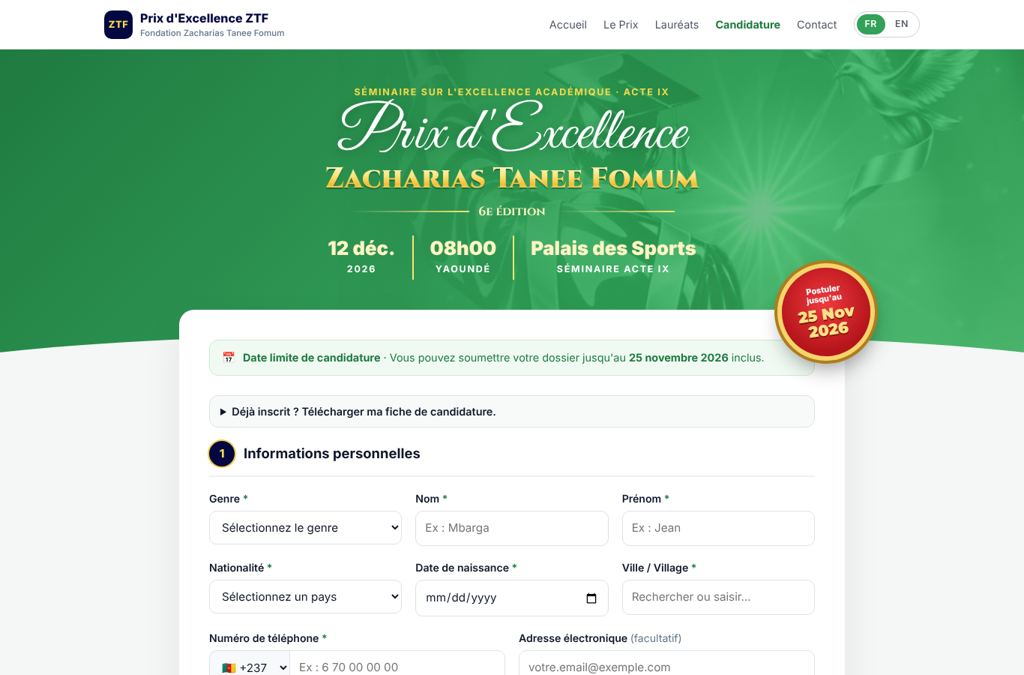
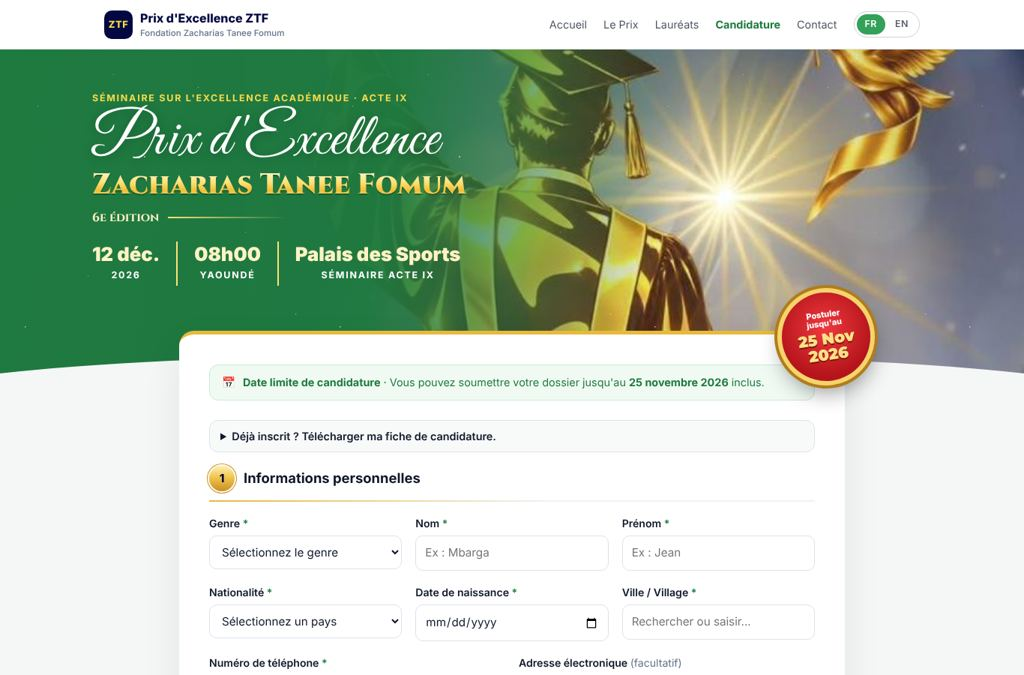
Renforce le thème des affiches dans les maquettes hybrides
Photos plus présentes (lauréat, trophée, portrait du Pr Fomum), numéros
de section et bouton dorés, pied de page doré, bandeau rouge du médaillon.

Claude-Session: https://claude.ai/code/session_01Mcbiq1fq7jBpc2oKkKSYz2

diff --git a/maquettes/hybride/index.html b/maquettes/hybride/index.html
@@ -31,29 +31,29 @@ main{max-width:1180px;margin:0 auto;padding:28px 16px 60px}
 <header class="sparkle">
   <div class="h-script">Prix d'Excellence</div>
   <h1 class="gold-on-green">SITE ACTUEL × AFFICHES · 5 MAQUETTES</h1>
-  <p>La base du formulaire en ligne (menu blanc, bandeau vert, carte blanche, bouton jaune, pied bleu nuit), avec les éléments forts des affiches de la 6e édition : titre en script, nom doré, médaillon « Postuler jusqu'au 25 Nov 2026 », séminaire du 12 décembre, compte à rebours.</p>
+  <p>La base du formulaire en ligne (menu blanc, bandeau vert, carte blanche), avec les photos et les éléments forts des affiches de la 6e édition : lauréat, trophée et portrait du fondateur, titre en script, nom doré, numéros et bouton dorés, médaillon « Postuler jusqu'au 25 Nov 2026 », séminaire du 12 décembre, compte à rebours.</p>
 </header>
 <main>
   <div class="grid">
     <a class="tile" href="1-classique-dore.html"><img src="apercus/1-classique-dore.jpg" alt="Aperçu maquette 1"><div class="b">
       <h2><span>1.</span> Classique doré</h2>
-      <p>Le site actuel presque inchangé : le bandeau vert reçoit le titre de l'affiche et, en filigrane, le lauréat doré. Le médaillon rouge est épinglé au coin de la carte.</p>
-      <div class="tags"><span>Le plus proche du site</span><span>Lauréat en filigrane</span><span>Médaillon</span></div></div></a>
+      <p>Le site actuel, avec le lauréat doré de l'affiche qui occupe toute la moitié droite du bandeau vert. Numéros de section dorés, bouton doré, médaillon rouge épinglé au coin de la carte.</p>
+      <div class="tags"><span>Le plus proche du site</span><span>Lauréat doré</span><span>Médaillon</span></div></div></a>
     <a class="tile" href="2-vert-et-nuit.html"><img src="apercus/2-vert-et-nuit.jpg" alt="Aperçu maquette 2"><div class="b">
       <h2><span>2.</span> Vert et nuit</h2>
-      <p>Le bandeau se coupe en deux : à gauche le vert du site avec le titre, à droite le bleu nuit de l'affiche avec le trophée, le médaillon, le compte à rebours et le séminaire.</p>
-      <div class="tags"><span>Deux univers côte à côte</span><span>Compte à rebours</span><span>Trophée</span></div></div></a>
+      <p>À gauche, le vert du site sur la photo du lauréat, avec le portrait du Pr Fomum et sa devise ; à droite, le bleu nuit de l'affiche avec le trophée, le médaillon, le compte à rebours et le séminaire.</p>
+      <div class="tags"><span>Deux univers côte à côte</span><span>Portrait du fondateur</span><span>Trophée</span></div></div></a>
     <a class="tile" href="3-bandeau-seminaire.html"><img src="apercus/3-bandeau-seminaire.jpg" alt="Aperçu maquette 3"><div class="b">
       <h2><span>3.</span> Bandeau séminaire</h2>
-      <p>Bandeau vert du site, puis une barre bleu nuit façon bas d'affiche (date, heure, lieu, compte à rebours, médaillon). Les 7 catégories de prix se déplient dans la carte.</p>
+      <p>Le lauréat de l'affiche en fond du bandeau vert, puis une barre bleu nuit façon bas d'affiche : médaillon, date, heure, lieu, compte à rebours et trophée. Les 7 catégories de prix se déplient dans la carte.</p>
       <div class="tags"><span>Sobre</span><span>Catégories dépliables</span><span>Infos du séminaire</span></div></div></a>
     <a class="tile" href="4-note-importante.html"><img src="apercus/4-note-importante.jpg" alt="Aperçu maquette 4"><div class="b">
       <h2><span>4.</span> Note importante</h2>
-      <p>En tête de la carte blanche, l'encadré bleu nuit et or de l'affiche « Note importante à tout élève et étudiant », sous ruban rouge, avec le médaillon et la date du séminaire.</p>
+      <p>Le trophée en grand dans le bandeau, puis l'encadré bleu nuit et or « Note importante à tout élève et étudiant » sous ruban rouge, avec le portrait du Pr Fomum, le médaillon et le séminaire.</p>
       <div class="tags"><span>Message de la Fondation</span><span>Ruban rouge</span><span>Motivant</span></div></div></a>
     <a class="tile" href="5-mobile-hybride.html"><img src="apercus/5-mobile-hybride.jpg" alt="Aperçu maquette 5"><div class="b">
       <h2><span>5.</span> Mobile hybride</h2>
-      <p>La version téléphone du site (barre verte, rubriques blanches repliables, bouton jaune fixe) avec le trophée en en-tête et le compte à rebours dans un encart vert.</p>
+      <p>La version téléphone du site (barre verte, rubriques blanches repliables) avec le trophée en en-tête, le compte à rebours dans le rouge du médaillon, la carte du fondateur et un bouton doré fixe.</p>
       <div class="tags"><span>Smartphone</span><span>Rubriques repliables</span><span>Progression</span></div></div></a>
   </div>
   <div class="note">

diff --git a/maquettes/hybride/5-mobile-hybride.html b/maquettes/hybride/5-mobile-hybride.html
@@ -19,15 +19,16 @@ html,body{background:#e3efe7}
 .hero{text-align:center;padding:120px 16px 20px;background:linear-gradient(180deg,rgba(3,8,66,.05),var(--site-navy) 82%),url(../affiche/img/trophee.jpg) center 25%/cover}
 .hero .h-script{font-size:2.9rem}
 .hero .h-name{font-family:Cinzel,serif;font-weight:900;font-size:1.35rem;margin-top:2px}
-.dl{margin:14px 12px 0;border-radius:18px;padding:14px;text-align:center;color:#fff;background:linear-gradient(135deg,var(--green-d),var(--green))}
-.dl .t{font-weight:800;text-transform:uppercase;font-size:.82rem;letter-spacing:.04em;color:var(--yellow)}
+.dl{margin:14px 12px 0;border-radius:18px;padding:14px;text-align:center;color:#fff;background:radial-gradient(circle at 50% 30%,#f03a3f,#b5141b 75%);box-shadow:0 0 0 3px #f7d36b,0 10px 24px rgba(0,0,0,.25)}
+.dl .t{font-weight:800;text-transform:uppercase;font-size:.82rem;letter-spacing:.04em;color:#ffe08a}
+.fm{margin:12px 12px 0;padding:14px;border-radius:18px;background:var(--site-navy) url(../affiche/img/laureat.jpg) right center/auto 140% no-repeat;box-shadow:inset 0 0 0 999px rgba(3,8,66,.55)}
 .dl .countdown{margin-top:10px}.dl .countdown div{min-width:62px;background:rgba(3,8,66,.35);border-color:rgba(255,255,255,.35)}
 .pad{padding:14px 12px 0}
 .list{padding:12px;display:grid;gap:12px}
 details.sec{background:#fff;border-radius:18px;border:1px solid var(--line-l);overflow:hidden;margin:0}
 details.sec>summary{list-style:none;display:flex;align-items:center;gap:12px;padding:15px;cursor:pointer;font-weight:700}
 details.sec>summary::-webkit-details-marker{display:none}
-summary .n{flex:none;width:36px;height:36px;border-radius:50%;display:grid;place-items:center;background:var(--site-navy);color:var(--yellow);font-weight:800;box-shadow:0 0 0 2px #f2c94c}
+summary .n{flex:none;width:36px;height:36px;border-radius:50%;display:grid;place-items:center;background:linear-gradient(180deg,#fff0b3,#f0c64f 45%,#c98f23);color:var(--site-navy);font-weight:800;box-shadow:0 0 0 2px #fff,0 0 0 3px #c98f23}
 details.sec.is-complete summary .n{background:var(--green);color:#fff;box-shadow:none}
 summary .t{flex:1;min-width:0}summary small{display:block;font-weight:400;color:var(--muted);font-size:.76rem}
 summary .st{font-size:.7rem;font-weight:700;color:var(--muted);background:#f2f4f7;padding:4px 8px;border-radius:999px;white-space:nowrap}
@@ -39,7 +40,7 @@ details.sec.is-complete summary .st{background:#dcfae6;color:var(--green-d)}
 .dock{position:fixed;left:0;right:0;bottom:0;z-index:30;padding:12px 16px calc(12px + env(safe-area-inset-bottom));background:rgba(255,255,255,.96);backdrop-filter:blur(8px);border-top:1px solid var(--line-l)}
 .dock-in{max-width:488px;margin:auto;display:flex;align-items:center;gap:12px}
 .dock .info{flex:1;font-size:.76rem;color:var(--muted);line-height:1.25}.dock .info b{display:block;color:var(--ink);font-size:.95rem}
-.dock-btn{flex:none;min-height:52px;padding:0 18px;border:0;border-radius:14px;font:inherit;font-weight:800;color:var(--site-navy);background:linear-gradient(180deg,#ffe98a,#f8da49 50%,#efc12e);cursor:pointer}
+.dock-btn{flex:none;min-height:52px;padding:0 18px;border:0;border-radius:999px;font:inherit;font-weight:800;color:var(--site-navy);background:linear-gradient(180deg,#fff0b3,#f0c64f 45%,#c98f23);box-shadow:0 6px 16px rgba(201,143,35,.35);cursor:pointer}
 .ztf-demo{bottom:92px!important}
 footer.site{display:none}
 </style>
@@ -57,6 +58,7 @@ footer.site{display:none}
   <div data-ztf-hide-on-success>
     <div class="dl"><div class="t"><span data-i18n="a.until"></span> <span data-i18n="a.until.date"></span></div>
       <div data-cd-open><div class="countdown"><div><b data-cd="d">00</b><span data-i18n="a.cd.days"></span></div><div><b data-cd="h">00</b><span data-i18n="a.cd.hours"></span></div><div><b data-cd="m">00</b><span data-i18n="a.cd.min"></span></div><div><b data-cd="s">00</b><span data-i18n="a.cd.sec"></span></div></div></div><div data-cd-closed hidden data-i18n="a.cd.closed"></div></div>
+    <div class="fm founder-mini"><img src="../affiche/img/fondateur.jpg" alt="Pr Zacharias Tanee Fomum"><div><b data-i18n="a.founder"></b><q data-i18n="a.founder.q"></q></div></div>
     <div class="pad" data-ztf-slot="lookup"></div>
     <form data-ztf-form id="form">
       <div class="list">

diff --git a/maquettes/hybride/4-note-importante.html b/maquettes/hybride/4-note-importante.html
@@ -10,7 +10,11 @@
 <link rel="stylesheet" href="hybride.css">
 <style>
 .deadline{display:flex;gap:10px;align-items:flex-start;background:#f0faf3;border:1px solid #cbead5;color:var(--green-d);border-radius:12px;padding:12px 16px;font-size:.9rem;margin-bottom:26px}
-.hero{color:#fff;text-align:center;padding:44px 16px 120px;background:linear-gradient(135deg,var(--green-d),var(--green) 60%,var(--green-l))}
+.hero{color:#fff;padding:44px 16px 140px;background:linear-gradient(90deg,var(--green-d) 0%,var(--green) 46%,rgba(51,161,90,.4) 60%,rgba(51,161,90,0) 72%),url(../affiche/img/trophee.jpg) right center/auto 200% no-repeat,var(--site-navy)}
+.hero .in{max-width:1080px;margin:auto}
+.hero .gold-rule{justify-content:flex-start;max-width:420px;margin-left:0!important}.hero .gold-rule:before{display:none}
+@media(max-width:760px){.hero{background:linear-gradient(180deg,rgba(31,122,64,.82),rgba(31,122,64,.95) 70%),url(../affiche/img/trophee.jpg) center/cover}}
+.hero>*{position:relative;text-shadow:0 2px 10px rgba(3,8,66,.45)}
 .hero .h-script{font-size:clamp(3rem,7vw,4.8rem);margin-top:6px}
 .hero .h-name{font-size:clamp(1.3rem,3.2vw,2.2rem)}
 .hero .gold-rule{margin:12px auto 0;font-family:Cinzel,serif;font-weight:700;color:#fff3c4}
@@ -22,6 +26,9 @@
 .note p{margin:0 0 10px}.note .g{color:#f2c94c;font-weight:800}
 .note .row{display:flex;flex-wrap:wrap;justify-content:center;align-items:center;gap:12px 22px;margin-top:14px}
 .note .row .event b{font-size:1.15rem}
+.note .head{display:grid;grid-template-columns:auto 1fr;gap:18px;align-items:center;text-align:left;margin-bottom:6px}
+.note .head img{width:96px;height:120px;object-fit:cover;border-radius:14px;box-shadow:0 0 0 3px #f2c94c}
+@media(max-width:560px){.note .head{grid-template-columns:1fr;text-align:center;justify-items:center}}
 </style>
 </head>
 <body>
@@ -33,19 +40,19 @@
   </div>
 </div></header>
 
-<section class="hero sparkle">
+<section class="hero sparkle"><div class="in">
   <div class="eyebrow" data-i18n="a.seminar"></div>
   <div class="h-script">Prix d'Excellence</div>
   <h1 class="h-name gold-on-green">Zacharias Tanee Fomum</h1>
   <div class="gold-rule" data-i18n="a.edition"></div>
-</section>
+</div></section>
 <main class="wrap">
   <div class="card form-site">
     <div data-ztf-hide-on-success>
       <div class="note sparkle">
         <span class="ribbon" data-i18n="a.note.title"></span>
-        <p class="g" data-i18n="a.note.1"></p>
-        <p data-i18n="a.note.3"></p>
+        <div class="head"><img src="../affiche/img/fondateur.jpg" alt="Pr Zacharias Tanee Fomum"><div><p class="g" data-i18n="a.note.1"></p><p data-i18n="a.note.2" style="font-weight:500"></p></div></div>
+        <p class="g" data-i18n="a.note.3"></p>
         <p data-i18n="a.note.4"></p>
         <div class="row"><div class="seal sm"><div><small data-i18n="a.until"></small><b data-i18n="a.until.date"></b></div></div><div class="event"><div><b data-i18n="a.date"></b><span data-i18n="a.year"></span></div><div><b data-i18n="a.time"></b><span data-i18n="a.city"></span></div><div><b data-i18n="a.venue"></b><span data-i18n="a.seminar.short"></span></div></div></div>
       </div>

diff --git a/maquettes/hybride/1-classique-dore.html b/maquettes/hybride/1-classique-dore.html
@@ -10,14 +10,18 @@
 <link rel="stylesheet" href="hybride.css">
 <style>
 .deadline{display:flex;gap:10px;align-items:flex-start;background:#f0faf3;border:1px solid #cbead5;color:var(--green-d);border-radius:12px;padding:12px 16px;font-size:.9rem;margin-bottom:26px}
-.hero{position:relative;overflow:hidden;color:#fff;text-align:center;padding:48px 16px 130px;background:linear-gradient(135deg,var(--green-d),var(--green) 60%,var(--green-l))}
-.hero:before{content:"";position:absolute;inset:0;background:url(../affiche/img/laureat.jpg) right 20% / auto 120% no-repeat;opacity:.28;mix-blend-mode:luminosity;-webkit-mask-image:linear-gradient(90deg,transparent 30%,#000 75%);mask-image:linear-gradient(90deg,transparent 30%,#000 75%)}
+.hero{position:relative;overflow:hidden;color:#fff;padding:56px 16px 150px;
+  background:linear-gradient(100deg,var(--green-d) 0%,rgba(31,122,64,.97) 38%,rgba(31,122,64,.55) 50%,rgba(31,122,64,0) 64%),url(../affiche/img/laureat.jpg) right center/auto 128% no-repeat,var(--site-navy)}
+.hero .in{max-width:1120px;margin:auto}
+.hero .event{justify-content:flex-start}.hero .event>div:first-child{padding-left:0}
+.hero .gold-rule{justify-content:flex-start}.hero .gold-rule:before{display:none}
+@media(max-width:760px){.hero{background:linear-gradient(180deg,rgba(31,122,64,.8),rgba(31,122,64,.95) 70%),url(../affiche/img/laureat.jpg) center/cover}}
 .hero:after{content:"";position:absolute;inset:auto -10% -60px -10%;height:120px;background:var(--bg);border-radius:50% 50% 0 0}
 .hero>*{position:relative;z-index:1}
 .hero .h-script{font-size:clamp(3rem,7vw,5rem);margin-top:6px}
 .hero .h-name{font-size:clamp(1.4rem,3.4vw,2.4rem)}
-.hero .gold-rule{margin:12px auto 0;font-family:Cinzel,serif;font-weight:700;color:#fff3c4}
-.hero .gold-rule:before,.hero .gold-rule:after{background:linear-gradient(90deg,transparent,#ffe27a)}
+.hero .gold-rule{margin:12px 0 0;max-width:420px;font-family:Cinzel,serif;font-weight:700;color:#fff3c4}
+.hero .gold-rule:after{background:linear-gradient(90deg,#ffe27a,transparent)}
 .hero .event{margin-top:20px}.hero .event b{color:#fff3c4}
 .hero .event>div{border-color:#ffe27a}
 .wrap{max-width:920px;margin:-90px auto 0;padding:0 16px 64px;position:relative;z-index:2}
@@ -34,13 +38,13 @@
   </div>
 </div></header>
 
-<section class="hero sparkle">
+<section class="hero sparkle"><div class="in">
   <div class="eyebrow" data-i18n="a.seminar"></div>
   <div class="h-script">Prix d'Excellence</div>
   <h1 class="h-name gold-on-green">Zacharias Tanee Fomum</h1>
   <div class="gold-rule" data-i18n="a.edition"></div>
   <div class="event"><div><b data-i18n="a.date"></b><span data-i18n="a.year"></span></div><div><b data-i18n="a.time"></b><span data-i18n="a.city"></span></div><div><b data-i18n="a.venue"></b><span data-i18n="a.seminar.short"></span></div></div>
-</section>
+</div></section>
 <main class="wrap">
   <div class="card form-site">
     <div class="seal sm"><div><small data-i18n="a.until"></small><b data-i18n="a.until.date"></b></div></div>

diff --git a/maquettes/hybride/3-bandeau-seminaire.html b/maquettes/hybride/3-bandeau-seminaire.html
@@ -9,13 +9,18 @@
 <link rel="stylesheet" href="../affiche/affiche.css">
 <link rel="stylesheet" href="hybride.css">
 <style>
-.hero{color:#fff;text-align:center;padding:46px 16px 120px;background:linear-gradient(135deg,var(--green-d),var(--green) 60%,var(--green-l))}
+.hero{color:#fff;text-align:center;padding:56px 16px 130px;background:linear-gradient(180deg,rgba(31,122,64,.72),rgba(31,122,64,.93) 75%),url(../affiche/img/laureat.jpg) center 35%/cover}
 .hero .h-script{font-size:clamp(3rem,7vw,4.8rem);margin-top:6px}
 .hero .h-name{font-size:clamp(1.3rem,3.2vw,2.2rem)}
 .hero .sub{margin:10px 0 0;font-weight:600;opacity:.92}
 .wrap{max-width:960px;margin:-86px auto 0;padding:0 16px 64px;position:relative;z-index:2}
 .strip{position:relative;margin-bottom:18px;box-shadow:0 16px 40px rgba(3,8,66,.25);border:1px solid rgba(232,185,60,.4)}
 .strip .seal{position:absolute;left:-30px;top:-34px}
+@media(min-width:1041px){.strip{padding-left:110px}}
+.strip .tro{height:112px;border-radius:14px;box-shadow:0 0 0 3px #e8b93c,0 10px 24px rgba(0,0,0,.35)}
+.strip .event>div{padding:4px 16px}
+@media(min-width:1041px){.strip{padding-right:110px}.strip .tro{position:absolute;right:-26px;top:-28px}}
+@media(max-width:700px){.strip .tro{display:none}}
 @media(max-width:1040px){.strip .seal{position:static}}
 .cats{margin:0 0 26px;border:1px solid var(--line-l);border-radius:14px;background:#f8faf9;padding:4px 14px}
 .cats summary{cursor:pointer;font-weight:700;padding:10px 0;color:var(--site-navy)}
@@ -43,6 +48,7 @@
     <div class="seal sm"><div><small data-i18n="a.until"></small><b data-i18n="a.until.date"></b></div></div>
     <div class="event"><div><b data-i18n="a.date"></b><span data-i18n="a.year"></span></div><div><b data-i18n="a.time"></b><span data-i18n="a.city"></span></div><div><b data-i18n="a.venue"></b><span data-i18n="a.seminar.short"></span></div></div>
     <div data-cd-open><div class="countdown"><div><b data-cd="d">00</b><span data-i18n="a.cd.days"></span></div><div><b data-cd="h">00</b><span data-i18n="a.cd.hours"></span></div><div><b data-cd="m">00</b><span data-i18n="a.cd.min"></span></div><div><b data-cd="s">00</b><span data-i18n="a.cd.sec"></span></div></div></div>
+    <img class="tro" src="../affiche/img/trophee.jpg" alt="Trophée ZTF Excellence Awards">
   </div>
   <div class="card form-site">
     <div data-ztf-hide-on-success>

diff --git a/maquettes/hybride/hybride.css b/maquettes/hybride/hybride.css
@@ -61,3 +61,19 @@ a{color:var(--green-d)}
 .success .again{display:inline-block;margin-top:16px;padding:12px 22px;border-radius:10px;border:1px solid var(--line-l);background:#fff;font:inherit;font-weight:600;cursor:pointer}
 footer.site{background:var(--site-navy);color:#cbd5e1;text-align:center;padding:24px 16px 80px;font-size:.85rem}
 footer.site strong{color:#fff}footer.site .contacts{color:var(--yellow);margin-top:8px}
+
+/* ---------- Plus de thème des affiches ---------- */
+.card{border-top:5px solid #e8b93c}
+.sec-h{border-bottom:2px solid transparent;border-image:linear-gradient(90deg,#e8b93c,#eef2f0 55%) 1}
+.sec-h .n{background:linear-gradient(180deg,#fff0b3,#f0c64f 45%,#c98f23);color:var(--site-navy);box-shadow:0 0 0 2px #fff,0 0 0 3px #c98f23}
+.sec.is-complete .sec-h .n{background:var(--green);color:#fff;box-shadow:0 0 0 2px #fff,0 0 0 3px var(--green)}
+.form-site .submit{background:linear-gradient(180deg,#fff0b3,#f0c64f 45%,#c98f23);text-transform:uppercase;letter-spacing:.06em;border-radius:999px;box-shadow:0 8px 22px rgba(201,143,35,.35),inset 0 1px 0 rgba(255,255,255,.7)}
+.form-site .drop{border-color:#e2c46f;background:#fffcf2}
+.form-site .notice{border-left-color:#e8b93c}
+footer.site{background:linear-gradient(180deg,#f7dc86,#c99a33);color:var(--site-navy)}
+footer.site strong{color:var(--site-navy)}footer.site .contacts{color:var(--site-navy);font-weight:800}
+/* Carte « fondateur » (portrait de l'affiche) */
+.founder-mini{display:flex;align-items:center;gap:14px;text-align:left}
+.founder-mini img{width:74px;height:92px;object-fit:cover;border-radius:12px;box-shadow:0 0 0 3px #f2c94c,0 8px 18px rgba(0,0,0,.3);flex:none}
+.founder-mini b{display:block;font-family:Cinzel,serif;font-size:.95rem;color:#ffe9a3}
+.founder-mini q{display:block;font-family:"Great Vibes",cursive;font-size:1.55rem;line-height:1.05;color:#fff;margin-top:2px}

diff --git a/maquettes/hybride/2-vert-et-nuit.html b/maquettes/hybride/2-vert-et-nuit.html
@@ -11,10 +11,10 @@
 <style>
 .hero{display:grid;grid-template-columns:1.25fr 1fr;min-height:420px}
 @media(max-width:860px){.hero{grid-template-columns:1fr}}
-.hero .l{background:linear-gradient(135deg,var(--green-d),var(--green) 70%);color:#fff;padding:46px clamp(16px,5vw,64px) 120px;display:flex;flex-direction:column;justify-content:center}
+.hero .l{background:linear-gradient(135deg,rgba(31,122,64,.95),rgba(51,161,90,.78) 70%),url(../affiche/img/laureat.jpg) center 30%/cover;color:#fff;padding:46px clamp(16px,5vw,64px) 120px;display:flex;flex-direction:column;justify-content:center}
 .hero .l .h-script{font-size:clamp(2.8rem,6vw,4.4rem);margin-top:8px}
 .hero .l .h-name{font-size:clamp(1.3rem,3vw,2.1rem)}
-.hero .l p{max-width:46ch;opacity:.92;margin:14px 0 0}
+.hero .l p{max-width:46ch;opacity:.95;margin:14px 0 18px;font-weight:600}
 .hero .r{position:relative;color:#fff;padding:36px 24px 120px;display:flex;flex-direction:column;align-items:center;justify-content:center;gap:14px;text-align:center;
   background:linear-gradient(180deg,rgba(3,8,66,.55),var(--site-navy) 80%),url(../affiche/img/trophee.jpg) center/cover}
 .hero .r .lbl{font-size:.8rem;color:#c9cdf0}
@@ -41,6 +41,7 @@
     <div class="h-script">Prix d'Excellence</div>
     <h1 class="h-name gold-on-green">Zacharias Tanee Fomum</h1>
     <p data-i18n="a.note.1"></p>
+    <div class="founder-mini"><img src="../affiche/img/fondateur.jpg" alt="Pr Zacharias Tanee Fomum"><div><b data-i18n="a.founder"></b><q data-i18n="a.founder.q"></q></div></div>
   </div>
   <div class="r sparkle">
     <div class="seal sm"><div><small data-i18n="a.until"></small><b data-i18n="a.until.date"></b></div></div>
